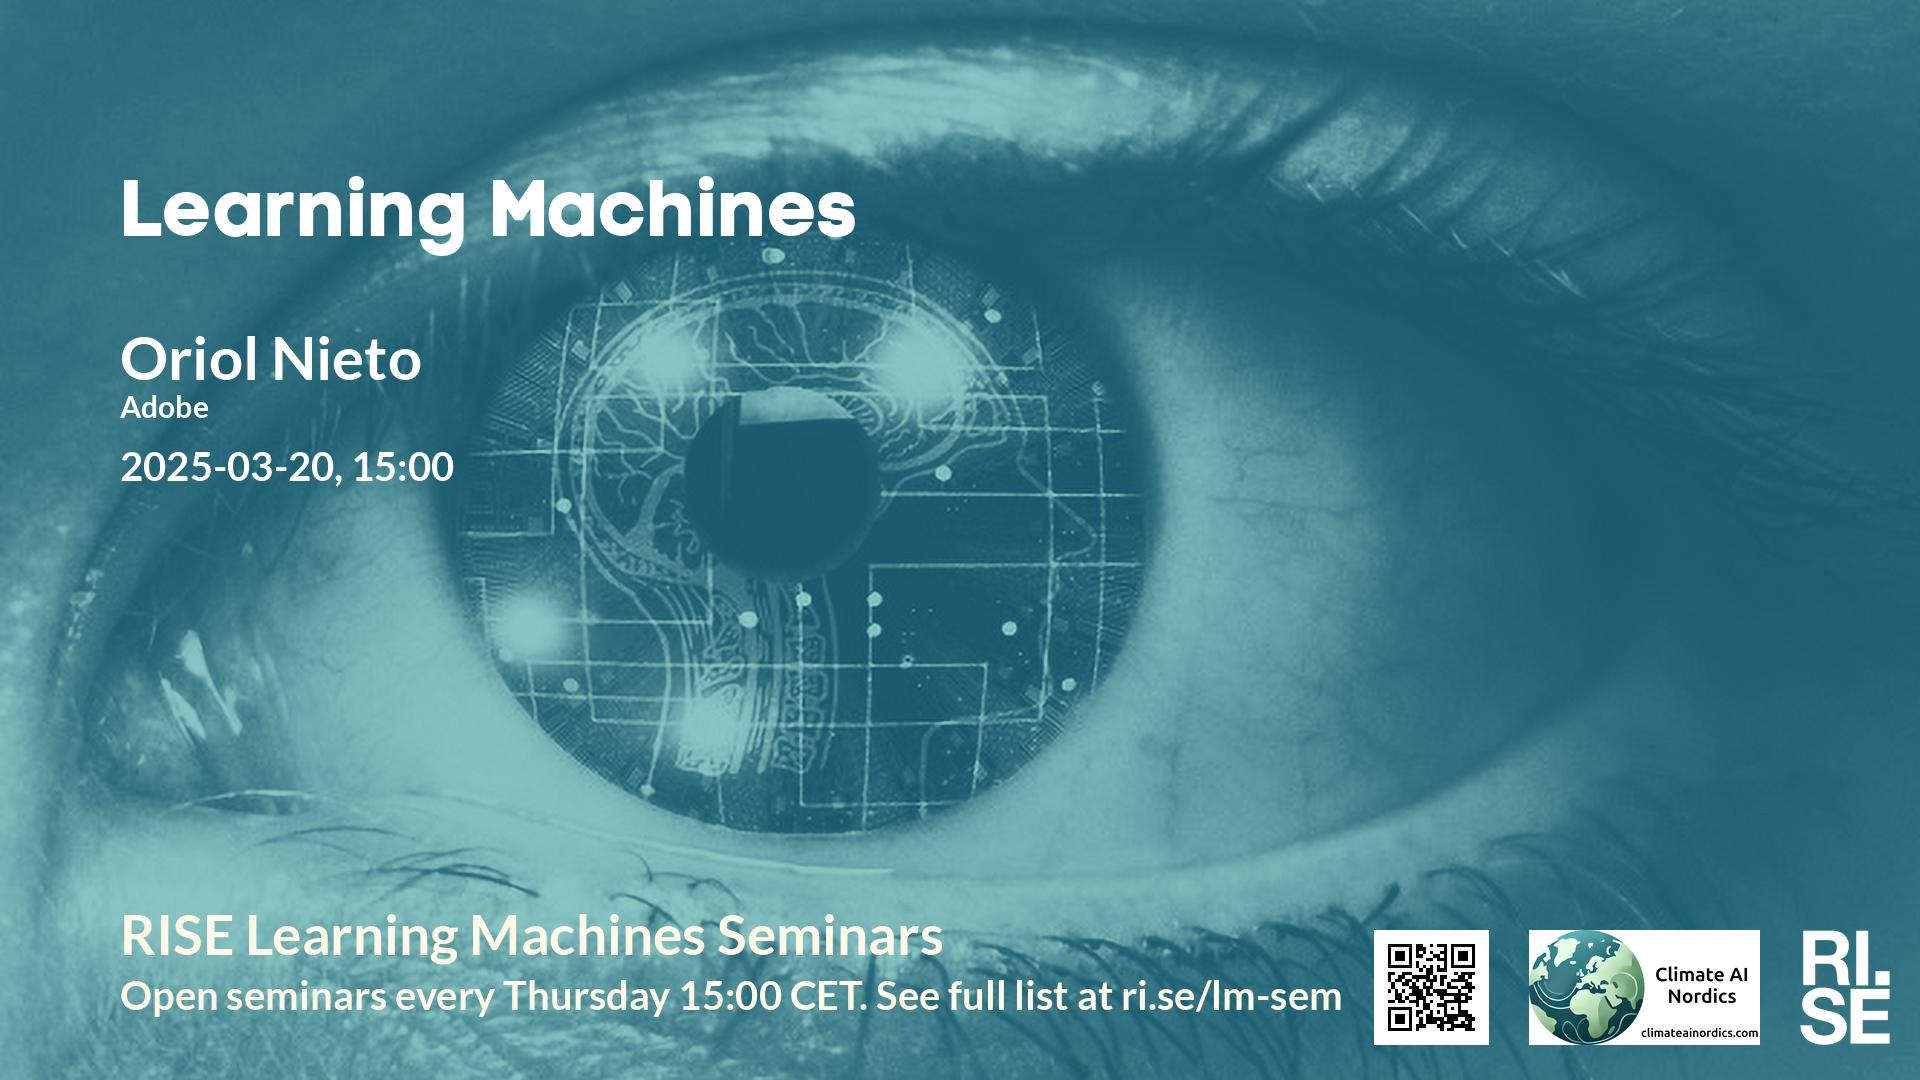
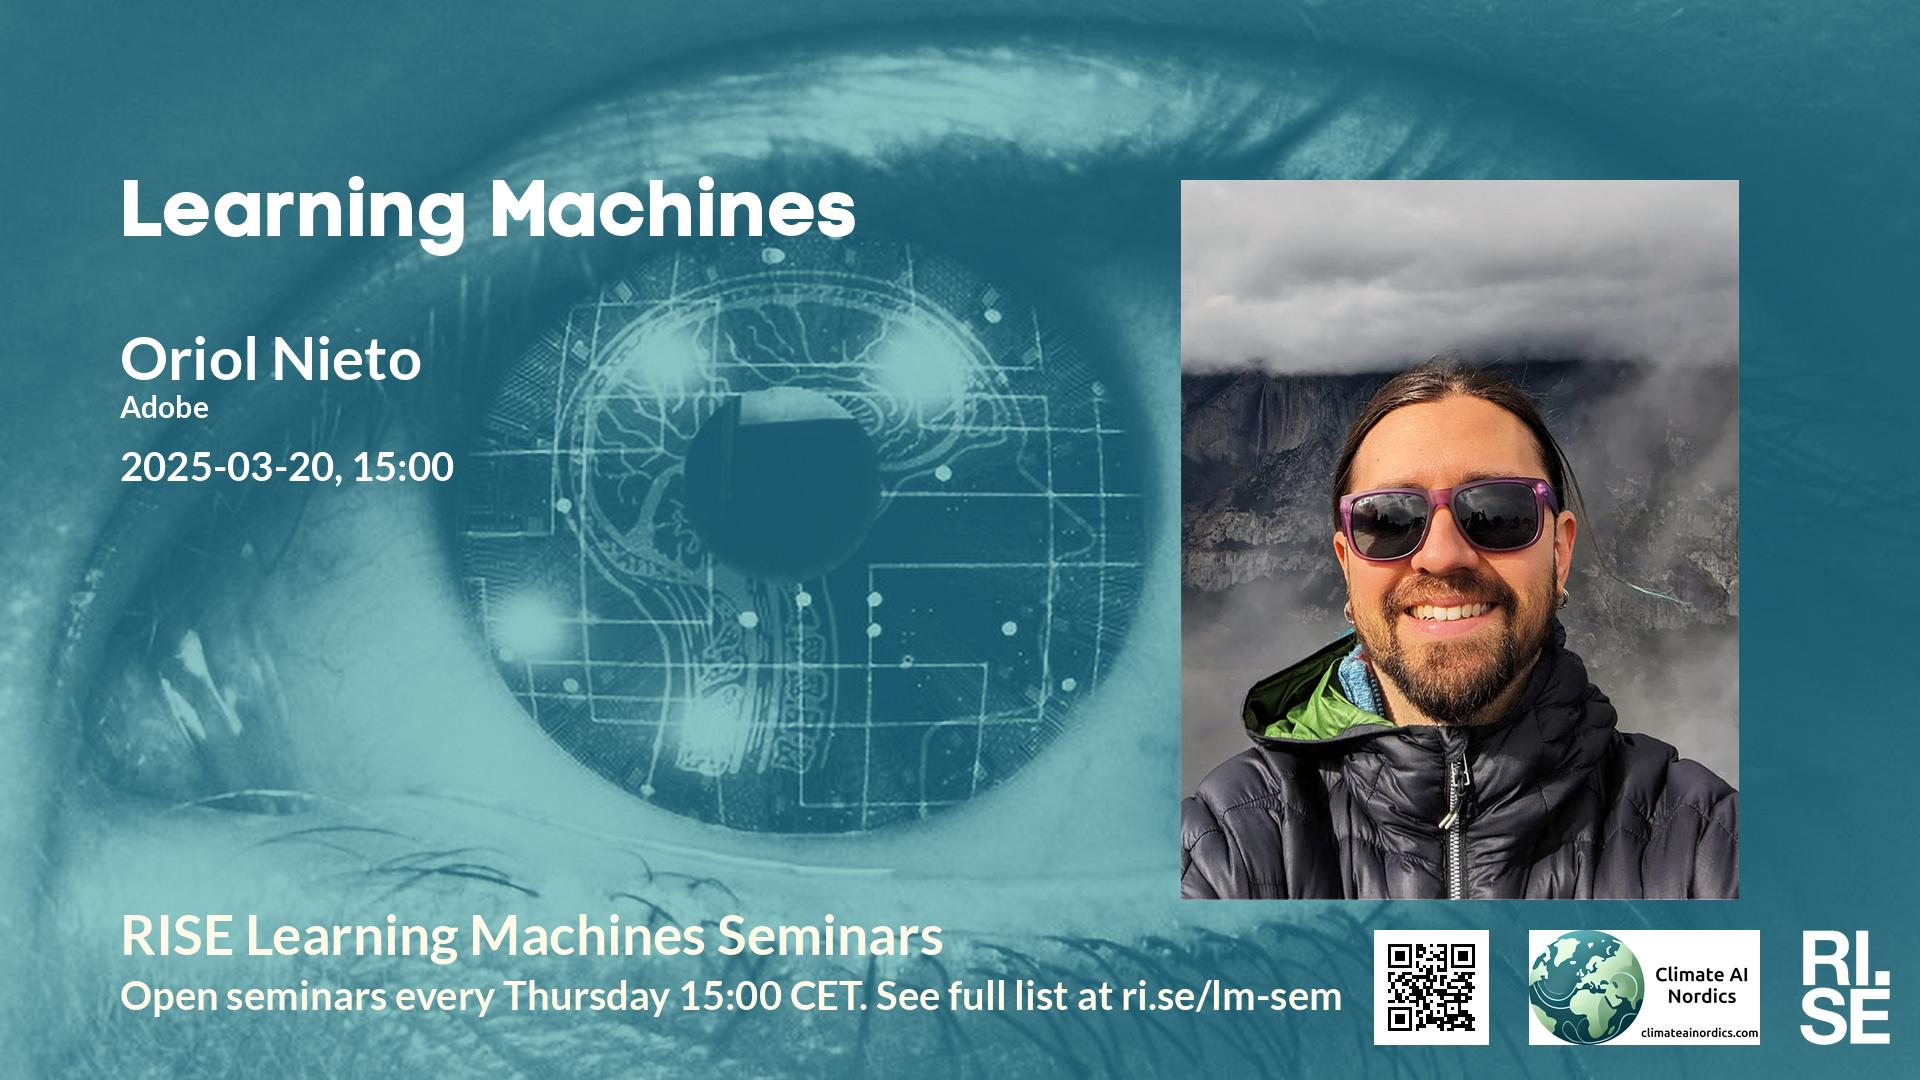
Updated plan on web site.

Changed region(s): [[0.5938, 0.1528, 0.9062, 0.8556]]

diff --git a/lm/2025.md b/lm/2025.md
@@ -18,7 +18,7 @@ table {border-collapse: collapse;}
 | <span style="color:red"> 2025-02-27 </span> | <span style="color:red"> Sportlov STHLM </span> | <span style="color:red">  </span> | <span style="color:red">  </span> | <span style="color:red">  </span> | <span style="color:red">  </span> | <span style="color:red"> CANCELLED </span> |
 |  2025-03-06  |  [Atakan Aral, University of Vienna](2025-03-06.md)  |  [photo](2025-03-06-photo-atakan-aral.jpg)  |  [social media ](2025-03-06-social-media-atakan-aral.jpg)  |  [meeting backdrop ](2025-03-06-meeting-backdrop-atakan-aral.jpg)  |  [youtube thumbnail ](2025-03-06-youtube-thumbnail-atakan-aral.jpg)  |  STABP  |
 |  2025-03-13  |  [Sherrie Wang, MIT](2025-03-13.md)  |  [photo](2025-03-13-photo-sherrie-wang.jpg)  |  [social media ](2025-03-13-social-media-sherrie-wang.jpg)  |  [meeting backdrop ](2025-03-13-meeting-backdrop-sherrie-wang.jpg)  |  [youtube thumbnail ](2025-03-13-youtube-thumbnail-sherrie-wang.jpg)  |  S~~TA~~BP  |
-|  2025-03-20  |  [Oriol Nieto, Adobe](2025-03-20.md)  |    |  [social media ](2025-03-20-social-media-oriol-nieto.jpg)  |  [meeting backdrop ](2025-03-20-meeting-backdrop-oriol-nieto.jpg)  |  [youtube thumbnail ](2025-03-20-youtube-thumbnail-oriol-nieto.jpg)  |  S~~TA~~B~~P~~  |
+|  2025-03-20  |  [Oriol Nieto, Adobe](2025-03-20.md)  |  [photo](2025-03-20-photo-oriol-nieto.jpg)  |  [social media ](2025-03-20-social-media-oriol-nieto.jpg)  |  [meeting backdrop ](2025-03-20-meeting-backdrop-oriol-nieto.jpg)  |  [youtube thumbnail ](2025-03-20-youtube-thumbnail-oriol-nieto.jpg)  |  S~~TA~~BP  |
 |  2025-03-27  |  [María J. Molina, University of Maryland](2025-03-27.md)  |  [photo](2025-03-27-photo-maria-j.-molina.jpg)  |  [social media ](2025-03-27-social-media-maria-j.-molina.jpg)  |  [meeting backdrop ](2025-03-27-meeting-backdrop-maria-j.-molina.jpg)  |  [youtube thumbnail ](2025-03-27-youtube-thumbnail-maria-j.-molina.jpg)  |  STABP  |
 |  2025-04-03  |  [Abdul Shaamala, Queensland University of Technology](2025-04-03.md)  |  [photo](2025-04-03-photo-abdul-shaamala.jpg)  |  [social media ](2025-04-03-social-media-abdul-shaamala.jpg)  |  [meeting backdrop ](2025-04-03-meeting-backdrop-abdul-shaamala.jpg)  |  [youtube thumbnail ](2025-04-03-youtube-thumbnail-abdul-shaamala.jpg)  |  S~~TAB~~P  |
 | <span style="color:purple"> 2025-04-10 </span> | <span style="color:purple"> *Up for grabs!!!* </span> | <span style="color:purple">  </span> | <span style="color:purple">  </span> | <span style="color:purple">  </span> | <span style="color:purple">  </span> | <span style="color:purple"> ~~STABP~~ </span> |

diff --git a/lm/index.md b/lm/index.md
@@ -18,7 +18,7 @@ table {border-collapse: collapse;}
 | <span style="color:red"> 2025-02-27 </span> | <span style="color:red"> Sportlov STHLM </span> | <span style="color:red">  </span> | <span style="color:red">  </span> | <span style="color:red">  </span> | <span style="color:red">  </span> | <span style="color:red"> CANCELLED </span> |
 |  2025-03-06  |  [Atakan Aral, University of Vienna](2025-03-06.md)  |  [photo](2025-03-06-photo-atakan-aral.jpg)  |  [social media ](2025-03-06-social-media-atakan-aral.jpg)  |  [meeting backdrop ](2025-03-06-meeting-backdrop-atakan-aral.jpg)  |  [youtube thumbnail ](2025-03-06-youtube-thumbnail-atakan-aral.jpg)  |  STABP  |
 |  2025-03-13  |  [Sherrie Wang, MIT](2025-03-13.md)  |  [photo](2025-03-13-photo-sherrie-wang.jpg)  |  [social media ](2025-03-13-social-media-sherrie-wang.jpg)  |  [meeting backdrop ](2025-03-13-meeting-backdrop-sherrie-wang.jpg)  |  [youtube thumbnail ](2025-03-13-youtube-thumbnail-sherrie-wang.jpg)  |  S~~TA~~BP  |
-|  2025-03-20  |  [Oriol Nieto, Adobe](2025-03-20.md)  |    |  [social media ](2025-03-20-social-media-oriol-nieto.jpg)  |  [meeting backdrop ](2025-03-20-meeting-backdrop-oriol-nieto.jpg)  |  [youtube thumbnail ](2025-03-20-youtube-thumbnail-oriol-nieto.jpg)  |  S~~TA~~B~~P~~  |
+|  2025-03-20  |  [Oriol Nieto, Adobe](2025-03-20.md)  |  [photo](2025-03-20-photo-oriol-nieto.jpg)  |  [social media ](2025-03-20-social-media-oriol-nieto.jpg)  |  [meeting backdrop ](2025-03-20-meeting-backdrop-oriol-nieto.jpg)  |  [youtube thumbnail ](2025-03-20-youtube-thumbnail-oriol-nieto.jpg)  |  S~~TA~~BP  |
 |  2025-03-27  |  [María J. Molina, University of Maryland](2025-03-27.md)  |  [photo](2025-03-27-photo-maria-j.-molina.jpg)  |  [social media ](2025-03-27-social-media-maria-j.-molina.jpg)  |  [meeting backdrop ](2025-03-27-meeting-backdrop-maria-j.-molina.jpg)  |  [youtube thumbnail ](2025-03-27-youtube-thumbnail-maria-j.-molina.jpg)  |  STABP  |
 |  2025-04-03  |  [Abdul Shaamala, Queensland University of Technology](2025-04-03.md)  |  [photo](2025-04-03-photo-abdul-shaamala.jpg)  |  [social media ](2025-04-03-social-media-abdul-shaamala.jpg)  |  [meeting backdrop ](2025-04-03-meeting-backdrop-abdul-shaamala.jpg)  |  [youtube thumbnail ](2025-04-03-youtube-thumbnail-abdul-shaamala.jpg)  |  S~~TAB~~P  |
 | <span style="color:purple"> 2025-04-10 </span> | <span style="color:purple"> *Up for grabs!!!* </span> | <span style="color:purple">  </span> | <span style="color:purple">  </span> | <span style="color:purple">  </span> | <span style="color:purple">  </span> | <span style="color:purple"> ~~STABP~~ </span> |
